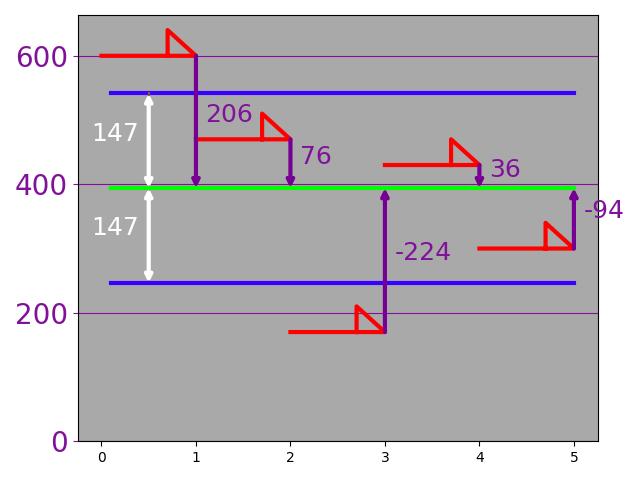
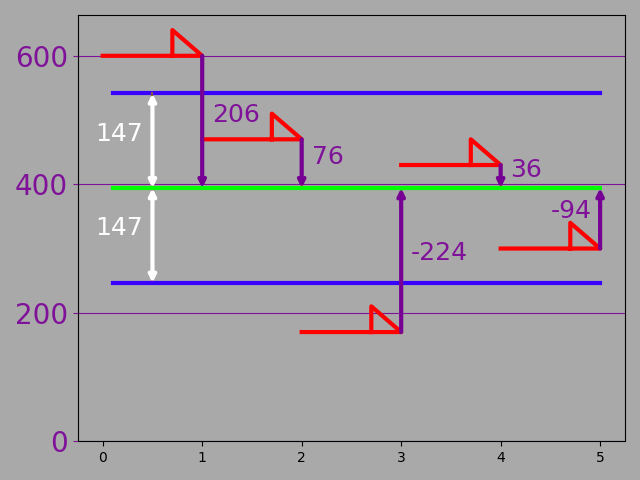
None plot err

diff --git a/graphic/plot.py b/graphic/plot.py
@@ -19,12 +19,14 @@ class Plot(DoStats):
         sd=self.getPSD(l)
         fig, ax = self.getFigAx()
         ax.set_facecolor('darkgray')
+        fig.set_facecolor('darkgray')
         ax.yaxis.grid(c='#7F1299')
         for index,item in enumerate(l):
             ax.plot([index,index+1,index+.7,index+.7],[item,item,item+40,item],c='red',linewidth=3)
             self.drawArrow([index+1,index+1],[item,m],arrowstyle='<-',c='#760093',linewidth=3)
             diff=item-m
-            self.drawTxt({'fontsize':18,'center':'left','color':'#7F1299','position':[index+1+.1,diff/2+m],'txt':int(diff)})
+            x=index+1+(.1 if index<4 else -.5)
+            self.drawTxt({'fontsize':18,'center':'left','color':'#7F1299','position':[x,diff/2+m],'txt':int(diff)})
         ax.plot([.1,5],[m+sd,m+sd],linewidth=3,c='#3700FF')
         self.drawArrow([.5,.5],[m+sd,m],arrowstyle='<->',c='#fff',linewidth=3)
         self.drawArrow([.5,.5],[m-sd,m],arrowstyle='<->',c='#fff',linewidth=3)
@@ -153,16 +155,17 @@ class Plot(DoStats):
         n, bins, rects=self.plotHist(ax,l,bars,labels,y,density=density,facecolor=facecolor)
         self.setAxes(ax,x,y,yLable,format_fn,plt)
         self.plotLines(ax, mean, y, density)
-        if annotation is None and y:
+        if annotation is None and y and mean:
             annotation = [{
                 'txt': 'Average = {0}'.format(mean),
                 'position': (mean, y[1] + 10),
                 'color': self.black
             }]
-        self.drawTxt(ax, annotation)
+        self.drawTxt(annotation)
         if callable(callback):
             callback(plt,ax,np,bins)
         self.this_function_name = inspect.currentframe().f_code.co_name
+        return self
     def setBarsCol(self,N, bins, patches):
         length=len(patches)
         if self.barCol:
@@ -196,7 +199,6 @@ class Plot(DoStats):
     def setAxes(self, ax, x, y, yLable,format_fn=None,plt=None):
         if y is None:
             return
-        
         # set the y limit
         plt.xlim(x[0], x[1])
         plt.ylim(y[0], y[1])
@@ -313,18 +315,18 @@ class Plot(DoStats):
             annotation=[annotation]
         for anno in annotation:
             d={'hasLine':False,'fontsize':14,'center':'center','color':'red',**anno}
-            hasLine,fontsize,center,color,position, txt=d.values()
-            if isinstance(txt, str):
-                txt=[txt]
+            txt=d['txt']
+            if isinstance(d['txt'], str):
+                txt=[d['txt']]
             strings = [str(item) for item in txt] if isinstance(txt,list) else [str(txt)]
-            ax.text(position[0], position[1], "\n".join(strings),
-            horizontalalignment=center,
-            fontsize=fontsize,
+            ax.text(d['position'][0], d['position'][1], "\n".join(strings),
+            horizontalalignment=d['center'],
+            fontsize=d['fontsize'],
             # verticalalignment='top',
             # transform=ax.transAxes,
-            color=color)
-            if hasLine:
-                self.plotLines(ax, position[0], (position[1]-.02,position[1]), notHasOffset=True,color=self.black)
+            color=d['color'])
+            if d['hasLine']:
+                self.plotLines(ax, d['position'][0], (d['position'][1]-.02,d['position'][1]), notHasOffset=True,color=self.black)
     def drawArrow(self,x,y,c='red',ax=None,arrowstyle="<->",linewidth=1):
         if ax is None:
             ax=self.ax
@@ -387,7 +389,7 @@ class Plot(DoStats):
             annos.append({'position': (x,y), 'txt': percent, 'color': color,'fontsize':10,'hasLine':hasLine,'center':'left'})
             annos.append({'position': (-x,y), 'txt': percent, 'color': color,'fontsize':10,'hasLine':hasLine,'center':'right'})
         return annos,cumulative
-    def plotStdND(self,x_format_fn=None,func=None,annotation=None,xInterval=None,barCol=None,cutLineCol=None):
+    def plotStdND(self,x_format_fn=None,func=None,annotation=None,xInterval=None,barCol=None,cutLineCol=None,l=None):
         self.x_format_fn=x_format_fn
         if xInterval is not None:
             self.xInterval=xInterval
@@ -395,8 +397,8 @@ class Plot(DoStats):
             self.barCol=barCol
         if cutLineCol is not None:
             self.cutLineCol=cutLineCol
-        l = self.getND(0, 1, size=10000)
-        
+        if l is None:
+            l = self.getND(0, 1, size=10000)
         def callback(plt,ax,np,bins):
             plt.setp( ax.yaxis.get_majorticklabels(), rotation=90 )
             y=np.linspace(0,.4,5)
@@ -415,3 +417,4 @@ class Plot(DoStats):
         format_fn=True,
         callback=callback,
         annotation=annotation)
+        return self

diff --git a/do_statistics/doStats.py b/do_statistics/doStats.py
@@ -213,7 +213,7 @@ class DoStats(object):
         # return val
         return np.percentile(self.list, percent * 100)
     # In statistics, the 68–95–99.7 rule, also known as the empirical rule, is a shorthand used to remember the percentage of values that lie within a band around the mean in a normal distribution with a width of two, four and six standard deviations, respectively; more precisely, 68.27%, 95.45% and 99.73% of the values lie within one, two and three standard deviations of the mean, respectively.
-    def getProbability(self, σ=None, isNormal=True, σRange=None):
+    def getProbability(self, σ=None, isNormal=True, σRange=None,isPercent=False):
         if σRange is None:
             σRange=[]
         if σ is None:
@@ -241,7 +241,8 @@ class DoStats(object):
                 ret = 0.9973
             else:
                 ret=1
-            return ret - self.getProbability(σRange[1]) if len(σRange)==2 else ret
+            ret =ret- self.getProbability(σRange[1]) if len(σRange)==2 else ret
+            return str(round(ret*100))+'%' if isPercent else ret
     def getSdCountByPercent(self,percent):
         if percent == 0:
             σ= None

diff --git a/test/fun/test_SD_VAR.py b/test/fun/test_SD_VAR.py
@@ -4,7 +4,7 @@ PACKAGE_PARENT = '../..'
 SCRIPT_DIR = os.path.dirname(os.path.realpath(
     os.path.join(os.getcwd(), os.path.expanduser(__file__))))
 sys.path.append(os.path.normpath(os.path.join(SCRIPT_DIR, PACKAGE_PARENT)))
-import unittest
+import unittest,numpy as np
 from mysql_data.decorators_func import singleton
 from graphic.plot import Plot
 class TDD_TEST_SD_VAR(unittest.TestCase):
@@ -20,5 +20,12 @@ class TDD_TEST_SD_VAR(unittest.TestCase):
         self.assertEqual(v,21704)
         sd=self.p.getPSD(l)
         self.assertAlmostEqual(sd,147,0)
+    def test_using(self):
+        p=self.p.getProbability(1,isPercent=True)
+        self.assertEqual(p,'68%')
+        self.p.plotStdND(
+            barCol='#0084C8',
+            cutLineCol='#14A5F4',
+        ).saveAndShow()
 if __name__ == '__main__':
     unittest.main()
